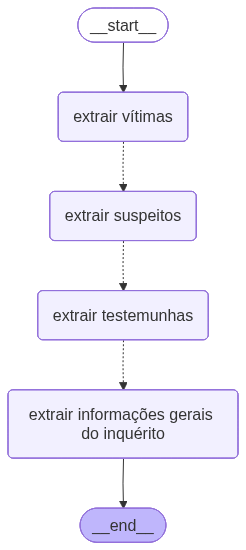
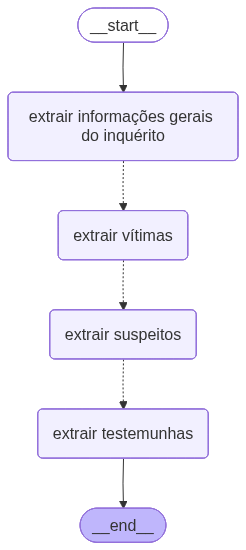
Adicionado grafo com roteamento inicial e mapeamento de pessoas envolvidas

Changed region(s): [[0.0285, 0.1545, 0.9959, 0.8345]]

diff --git a/extraction_pipeline/nodes/extract_data_nodes.py b/extraction_pipeline/nodes/extract_data_nodes.py
@@ -1,4 +1,3 @@
-import json
 from langgraph.types import Command
 from typing import Literal
 from langgraph.graph import END
@@ -15,21 +14,53 @@ from extraction_pipeline.schemas.extract_data_schemas import (
     Vitimas,
     Suspeitos,
     Testemunhas,
-    Inquerito
+    Inquerito,
+    ClassificacaoCrime
 )
+    
 
+# ---------------------------------------------------------
+# Nó para extrair informações gerais do processo
+# ---------------------------------------------------------
+def extrair_info_inquerito_node(state) -> Command[Literal["extrair vítimas"]]:
+    document = state.document
+    prompt = prompt_inquerito_info.format(document=document)
+
+    response_content = call_llm(prompt=prompt, output_schema=Inquerito)
+    inquerito_info = Inquerito.model_validate_json(response_content)
+
+    return Command(
+        update={"inquerito": inquerito_info}
+    )
 
 # ---------------------------------------------------------
 # Nó para extrair informações das vítimas
 # ---------------------------------------------------------
 def extrair_vitimas_node(state) -> Command[Literal["extrair suspeitos"]]:
     document = state.document
-    prompt = prompt_vitimas.format(document=document)
+    vitimas_lista = state.inquerito.pessoas_envolvidas.vitimas
+
+    vitimas_str = ", ".join(vitimas_lista)
+
+    prompt = prompt_vitimas.format(document=document, vitimas=vitimas_str)
 
     response_content = call_llm(prompt=prompt, output_schema=Vitimas)
     vitimas = Vitimas.model_validate_json(response_content)
 
-    goto = "extrair suspeitos"
+    # Decisão do próximo passo
+    goto = END # O padrão é terminar se não houver mais ninguém
+    inquerito_info = state.inquerito
+    suspeitos = inquerito_info.pessoas_envolvidas.suspeitos_investigados
+    testemunhas = inquerito_info.pessoas_envolvidas.testemunhas
+
+    if suspeitos:
+        goto = "extrair_suspeitos"
+        print(f"-> Próximo passo: {goto}")
+    elif testemunhas:
+        goto = "extrair_testemunhas"
+        print(f"-> Próximo passo: {goto}")
+    else:
+        print("-> Próximo passo: Ninguém mais para extrair. Finalizando.")
 
     return Command(
         goto=goto,
@@ -42,12 +73,25 @@ def extrair_vitimas_node(state) -> Command[Literal["extrair suspeitos"]]:
 # ---------------------------------------------------------
 def extrair_suspeitos_node(state) -> Command[Literal["extrair testemunhas"]]:
     document = state.document
-    prompt = prompt_suspeitos.format(document=document)
+    suspeitos_lista = state.inquerito.pessoas_envolvidas.suspeitos_investigados
+
+    suspeitos_str = ", ".join(suspeitos_lista)
+
+    prompt = prompt_suspeitos.format(document=document, suspeitos=suspeitos_str)
 
     response_content = call_llm(prompt=prompt, output_schema=Suspeitos)
     suspeitos = Suspeitos.model_validate_json(response_content)
 
-    goto = "extrair testemunhas"
+    # Decisão do próximo passo
+    goto = END # O padrão é terminar se não houver mais ninguém
+    inquerito_info = state.inquerito
+    testemunhas = inquerito_info.pessoas_envolvidas.testemunhas
+
+    if testemunhas:
+        goto = "extrair_testemunhas"
+        print(f"-> Próximo passo: {goto}")
+    else:
+        print("-> Próximo passo: Ninguém mais para extrair. Finalizando.")
 
     return Command(
         goto=goto,
@@ -58,14 +102,18 @@ def extrair_suspeitos_node(state) -> Command[Literal["extrair testemunhas"]]:
 # ---------------------------------------------------------
 # Nó para extrair informações das testemunhas
 # ---------------------------------------------------------
-def extrair_testemunhas_node(state) -> Command[Literal["extrair informações gerais do inquérito"]]:
+def extrair_testemunhas_node(state):
     document = state.document
-    prompt = prompt_testemunhas.format(document=document)
+    testemunhas_lista = state.inquerito.pessoas_envolvidas.testemunhas
+
+    testemunhas_str = ", ".join(testemunhas_lista)
+
+    prompt = prompt_testemunhas.format(document=document, testemunhas=testemunhas_str)
 
     response_content = call_llm(prompt=prompt, output_schema=Testemunhas)
     testemunhas = Testemunhas.model_validate_json(response_content)
 
-    goto = "extrair informações gerais do inquérito"
+    goto = END
 
     return Command(
         goto=goto,
@@ -73,21 +121,6 @@ def extrair_testemunhas_node(state) -> Command[Literal["extrair informações ge
     )
 
 
-# ---------------------------------------------------------
-# Nó para extrair informações gerais do processo
-# ---------------------------------------------------------
-def extrair_info_inquerito_node(state):
-    document = state.document
-    prompt = prompt_inquerito_info.format(document=document)
 
-    response_content = call_llm(prompt=prompt, output_schema=Inquerito)
-    inquerito_info = Inquerito.model_validate_json(response_content)
-
-    goto = END
-
-    return Command(
-        goto=goto,
-        update={"inquerito": inquerito_info}
-    )
 
 

diff --git a/extraction_pipeline/graphs/extract_data.py b/extraction_pipeline/graphs/extract_data.py
@@ -7,7 +7,8 @@ from extraction_pipeline.schemas.extract_data_schemas import (
   Vitimas,
   Suspeitos,
   Testemunhas,
-  Inquerito
+  Inquerito,
+  ClassificacaoCrime
 )
 
 # Importando nós do grafo
@@ -17,6 +18,40 @@ from extraction_pipeline.nodes.extract_data_nodes import (
   extrair_testemunhas_node,
   extrair_info_inquerito_node
 )
+
+# Função para roteamento a partir da extração da info básica
+def decidir_proximo_passo_extracao(inquerito_info: dict) -> str:
+    """
+    Analisa o estado para decidir o próximo passo no fluxo de extração.
+    A ordem de prioridade é: Vítimas -> Suspeitos -> Testemunhas.
+    Se o crime não tiver indício de crime, o fluxo é encerrado.
+    """
+    print("--- ROTEADOR: Decidindo próximo passo da extração ---")
+    
+    # Primeira verificação: Interromper se for morte sem indício de crime
+    if inquerito_info.inquerito.classificacao_crime == ClassificacaoCrime.MORTE_SEM_INDICIO_DE_CRIME:
+        print("-> Rota: Morte sem indício de crime. Finalizando o fluxo.")
+        return END
+
+    # Acessar as listas de pessoas
+    vitimas = inquerito_info.pessoas_envolvidas.vitimas
+    suspeitos = inquerito_info.pessoas_envolvidas.suspeitos_investigados
+    testemunhas = inquerito_info.pessoas_envolvidas.testemunhas
+    
+    # Lógica de roteamento com prioridade
+    if vitimas:
+        print("-> Rota: Vítimas identificadas. Indo para 'extrair_vitimas'.")
+        return "extrair_vitimas"
+    elif suspeitos:
+        print("-> Rota: Sem vítimas, mas com suspeitos. Indo para 'extrair_suspeitos'.")
+        return "extrair_suspeitos"
+    elif testemunhas:
+        print("-> Rota: Sem vítimas ou suspeitos, mas com testemunhas. Indo para 'extrair_testemunhas'.")
+        return "extrair_testemunhas"
+    else:
+        # Caso não haja ninguém para extrair, o fluxo pode terminar
+        print("-> Rota: Nenhuma pessoa relevante identificada para extração. Finalizando o fluxo.")
+        return END
 
 # ---------------------------------------------------------
 # Definição do estado do grafo
@@ -34,13 +69,28 @@ class InqueritoTotal(BaseModel):
 builder = StateGraph(InqueritoTotal)
 
 # Adiciona os nós
+builder.add_node("extrair informações gerais do inquérito", extrair_info_inquerito_node)
 builder.add_node("extrair vítimas", extrair_vitimas_node)
 builder.add_node("extrair suspeitos", extrair_suspeitos_node)
 builder.add_node("extrair testemunhas", extrair_testemunhas_node)
-builder.add_node("extrair informações gerais do inquérito", extrair_info_inquerito_node)
 
 # Adiciona aresta para o início
-builder.add_edge(START, "extrair vítimas")
+builder.set_entry_point("extrair informações gerais do inquérito")
+
+# 4. Adicionar a aresta condicional
+builder.add_conditional_edges(
+    # O nó de origem da decisão
+    "extrair informações gerais do inquérito",
+    # A função que toma a decisão
+    decidir_proximo_passo_extracao,
+    # O mapeamento: o que a função retorna -> para qual nó ir
+    {
+        "extrair_vitimas": "extrair vítimas",
+        "extrair_suspeitos": "extrair suspeitos",
+        "extrair_testemunhas": "extrair testemunhas",
+        END: END
+    }
+)
 
 # Compila grafo
 pipeline = builder.compile()

diff --git a/extraction_pipeline/prompts/prompts.py b/extraction_pipeline/prompts/prompts.py
@@ -9,6 +9,9 @@ Instruções:
 - Sua resposta deve seguir **exatamente** o schema completo definido para vítimas. 
 - O que for "não informado" não precisa ser preenchido.
 
+Vítimas:
+{vitimas}
+
 Promoção de arquivamento:
 {document}
 """
@@ -25,6 +28,9 @@ Instruções:
 - Sua resposta deve seguir **exatamente** o schema completo definido para suspeitos.
 - O que for "não informado" não precisa ser preenchido.
 
+Suspeitos:
+{suspeitos}
+
 Promoção de arquivamento:
 {document}    
 """
@@ -39,24 +45,37 @@ Instruções:
 - Caso alguma informação não esteja disponível, não preencha o respectivo campo. Não invente dados e não preencha com "não informado".
 - O que for "não informado" não precisa ser preenchido.
 
+Testemunhas:
+{testemunhas}
 
 Promoção de arquivamento:
 {document}    
 """
 
 prompt_inquerito_info = """
-Você é um assistente especializado em analisar promoções de arquivamento e extrair informações estruturadas sobre o inquérito policial. 
-Siga cuidadosamente as instruções abaixo:
+Você é um assistente especializado em analisar promoções de arquivamento e extrair informações estruturadas.
+Sua tarefa é extrair duas categorias principais de informação: 
+1) Um mapeamento de todas as pessoas envolvidas e seus respectivos papéis.
+2) Os detalhes sobre o inquérito policial.
 
-Instruções:
+Siga cuidadosamente todas as instruções abaixo.
+
+Instruções Gerais:
+- Sua resposta deve seguir o schema de saída.
 - Caso alguma informação não esteja disponível, não preencha o respectivo campo. Não invente dados e não preencha com "não informado".
-- Para datas e horas, mantenha o formato encontrado no documento, sem alterá-lo.
-- Para 'razao_arquivamento', copie exatamente o trecho do documento, sem resumir ou interpretar.
-- 'é_feminicidio' só deve ser True se a classificação do crime for Homicídio.
-- 'bem_roubado' deve ser preenchido sempre que a classificação do crime for Latrocínio.
-- 'resultado' deve seguir a lógica: Latrocínio é sempre consumado; caso de 'MORTE_SEM_INDICIO_DE_CRIME', resultado deve ser None.
-- Sua resposta deve seguir **exatamente** o schema completo definido para o inquérito.
-- O que for "não informado" não precisa ser preenchido.
+
+Instruções para o mapeamento de 'pessoas_envolvidas':
+- Identifique o nome completo de todas as vítimas, suspeitos/investigados e testemunhas mencionados no texto.
+- Preencha as listas `vitimas`, `suspeitos_investigados` e `testemunhas` com os nomes correspondentes.
+- Seja cuidadoso para não classificar a mesma pessoa em múltiplos papéis, a menos que o texto explicitamente suporte isso.
+
+Instruções para os detalhes do 'inquerito':
+- Para datas e horas, mantenha o formato exato encontrado no documento.
+- Para o campo 'razao_arquivamento', copie textualmente o trecho do documento que justifica o arquivamento, sem resumir ou interpretar.
+- As seguintes regras de negócio **devem** ser seguidas:
+    - O campo 'é_feminicidio' só pode ser True se a 'classificacao_crime' for Homicídio.
+    - O campo 'bem_roubado' deve ser preenchido se a 'classificacao_crime' for Latrocínio.
+    - O campo 'resultado' segue uma lógica específica: Latrocínio é sempre 'CONSUMADO'. Para 'MORTE_SEM_INDICIO_DE_CRIME', o resultado deve ser nulo (não preenchido).
 
 Promoção de arquivamento:
 {document}

diff --git a/extraction_pipeline/schemas/extract_data_schemas.py b/extraction_pipeline/schemas/extract_data_schemas.py
@@ -102,14 +102,32 @@ class Testemunhas(BaseModel):
     """Lista de pessoas identificadas como testemunhas no inquerito policial aquivado."""
     testemunhas: Optional[List[Pessoa]] = Field(None, description="Lista de testemunhas") 
 
-
+# ---------------------------------------------------
+# Schema para mapeamento inicial de pessoas envolvidas
+# ---------------------------------------------------
+class PessoasEnvolvidas(BaseModel):
+    """Mapeamento de todas as pessoas mencionadas no documento e seus respectivos papéis."""
+    
+    vitimas: List[str] = Field(
+        default_factory=list,
+        description="Lista contendo o nome completo de cada vítima identificada no inquérito."
+    )
+    suspeitos_investigados: List[str] = Field(
+        default_factory=list,
+        description="Lista contendo o nome completo de cada suspeito ou investigado identificado."
+    )
+    testemunhas: List[str] = Field(
+        default_factory=list,
+        description="Lista contendo o nome completo de cada testemunha identificada."
+    )
 
 # ---------------------------------------------------
 # Schema 'Inquerito' 
 # ---------------------------------------------------
-
 class Inquerito(BaseModel):
     """Informações estruturadas sobre a ocorrência descrita no inquérito policial."""
+    # --- Pessoas envolvidas para auxiliar próximos nós ---
+    pessoas_envolvidas: PessoasEnvolvidas                           = Field(description="Mapeamento de todas as pessoas mencionadas no documento e seus respectivos papéis.")
     
     # --- Nova Seção de Classificação do Crime ---
     classificacao_crime: ClassificacaoCrime                         = Field(None, description="Classificação jurídica principal do fato.")

diff --git a/extraction_pipeline/scripts/visualize_graph.py b/extraction_pipeline/scripts/visualize_graph.py
@@ -6,7 +6,7 @@ if __name__ == "__main__":
     graph = pipeline.get_graph(xray=True)
 
     # --- Salvar PNG ---
-    png_bytes = graph.draw_mermaid_png()
+    png_bytes = graph.draw_mermaid_png(max_retries=5, retry_delay=2.0)
     output_dir = "outputs"
     os.makedirs(output_dir, exist_ok=True)
     png_path = os.path.join(output_dir, "grafo.png")